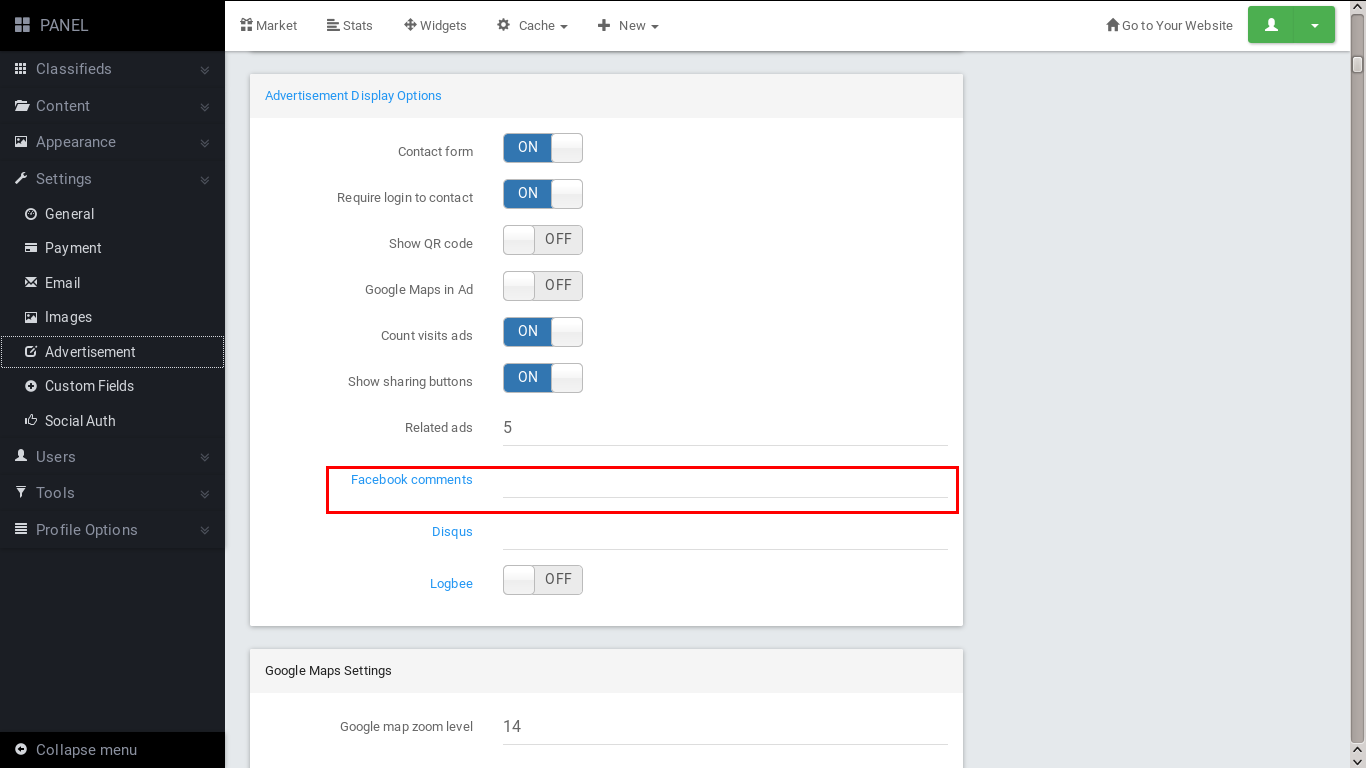
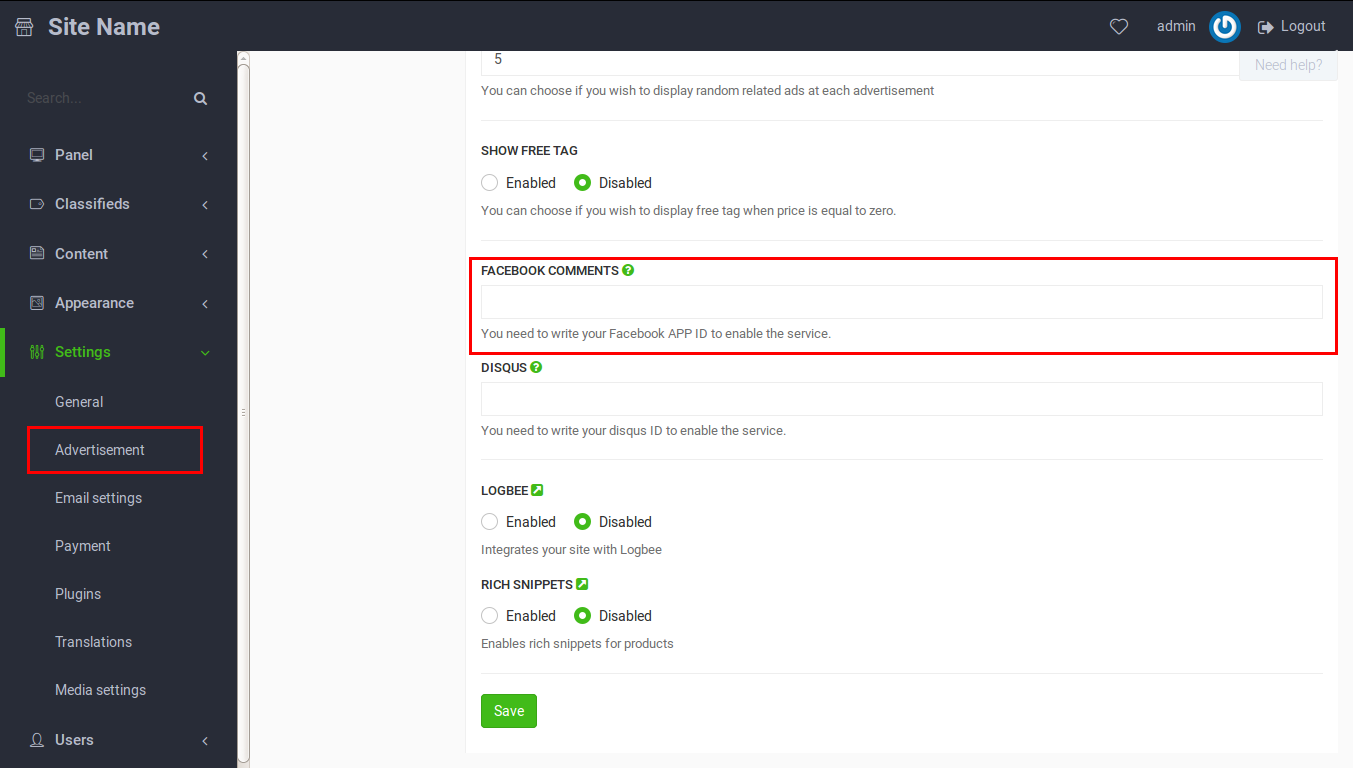
prepare docs for new panel

diff --git a/how-to-configure-publish-options.md b/how-to-configure-publish-options.md
@@ -5,25 +5,24 @@ categories: Advertisement
 tags: [Advertisement]
 permalink: /how-to-configure-publish-options/
 ---
-You can access these options by logging into your admin panel and going to **Settings** -> **Advertisement**. 
+You can access these options by logging into your admin panel and going to **Settings** -> **Advertisement** -> **Publish Options**. 
 
-
-<br>
+<a href="//docs.yclas.com/images/listing-options.png" class="thumbnail gallery-item" data-gallery>
 ![PublishOptions](//docs.yclas.com/images/publish-options.png)
-
-
-<br>
+</a>
 
 + **Require login to post:** Force your users to register or login before they post any ad on your website. Read more in [this guide]({{ site.baseurl }}/force-registration-posting-new-ad).
 + **Only administrators can publish:** Users or guests are not able to publish ads on your site.
 + **Ad expiration date:** After how many days an Ad will expire. Put 0 (zero) if you don't want ads to expire.
-+ **Parent categories:** By switching ON this option users are allowed to publish an Ad under a parent category.
++ **Parent category:** By switching ON this option users are allowed to publish an Ad under a parent category.
 + **Google Maps in Publish New:** Displays the google maps in the Publish new form.
++ **BBCODE editor on description field:** BBCODE editor appears in description field.
 + **Captcha:** Captcha appears in the form.
 + **Leave alert before submitting form**: Disable/Enable leave alert before submitting publish new form.
 + **Term of Service:** If you choose to use terms of service, you can select activate. More details in [this guide]({{ site.baseurl }}/how_to_add_pages).
 + **Thank page:** Page that will be displayed to the user after he publishes an Ad.
 + **Banned words:** You need to write your banned words separated with coma (,) to enable the service.
++ **Validate banned words:** Enables banned words validation.
 + **Banned words replacement:** Banned word replacement replaces selected array with the string you provided. (For example "xxx")
 
   

diff --git a/review-system-works.md b/review-system-works.md
@@ -12,11 +12,14 @@ Note that the review option is available only for the Premium Users. when you're
 To enable the review system follow the steps below: 
 
 1. Log in your **Admin Panel** 
-2. Choose **Settings** > **Advertisement** > **Reviews Configuration** 
+2. Choose **Settings** > **Advertisement** > **Reviews** 
 3. **Enable reviews = ON** 
 4. **Save** the changes 
 
-![Reviews FAQ 1](//open-classifieds.com/wp-content/uploads/2014/08/ReviewsFAQ-1.png) 
+
+<a href="//docs.yclas.com/images/reviews.png" class="thumbnail gallery-item" data-gallery>
+![Reviews FAQ 1](//docs.yclas.com/images/reviews.png) 
+</a>
 
 <br>
 Then, go to your website, click on an ad and you can see that the option of leaving a review appeared as shown in the below screenshot.
@@ -35,10 +38,12 @@ What is more, an additional option is provided for you! You are able to give an 
 
 To activate this option, log in your **Admin Panel**, choose **Settings** > **Advertisement** > **Reviews Configuration** and in the field: **Only for paid transactions** \- select **ON**. Save the changes and you're ready!
 
-![ReviewsFAQ. 4](//open-classifieds.com/wp-content/uploads/2014/08/ReviewsFAQ.-4.png)
+<a href="//docs.yclas.com/images/reviews1.png" class="thumbnail gallery-item" data-gallery>
+![Reviews FAQ 1](//docs.yclas.com/images/reviews1.png) 
+</a>
 
 <br>
-**IMPORTANT!** Make sure that the user paypal link option is activated, otherwise the reviews cannot work properly. To get this working, go to Settings > Payement > Paypal, Set "User paypal link" to "On" and Save changes.
+**IMPORTANT!** Make sure that the user paypal link option is activated, otherwise the reviews cannot work properly. To get this working, go to Settings > Payment > Paypal, Set "Buy Now" to "On" and Save changes.
 
 We hope that with our new Open Classifieds solutions managing your website is becoming easier! And remember that this is a premium feature which you can get now starting from [a small fee of 3.49$ a month](http://open-classifieds.com/hosting/)
 

diff --git a/add-facebook-comments.md b/add-facebook-comments.md
@@ -14,26 +14,34 @@ This feature requires **two steps** one on **Facebook side** and one on **Open C
 1. First you need to **log in to Facebook** and go to https://developers.facebook.com 
 2. Click on **Apps** (register as a developer if you haven't already) 
 
+<a href="//open-classifieds.com/wp-content/uploads/2014/05/facebook-apps-1024x516.png" class="thumbnail gallery-item" data-gallery>
 ![facebook apps](//open-classifieds.com/wp-content/uploads/2014/05/facebook-apps-1024x516.png) 
+</a>
 
 3\. Click on **New App** and name it whatever you want 
 
+<a href="//open-classifieds.com/wp-content/uploads/2014/05/facebook-apps2-1024x516.png" class="thumbnail gallery-item" data-gallery>
 ![facebook apps2](//open-classifieds.com/wp-content/uploads/2014/05/facebook-apps2-1024x516.png) 
+</a>
 
 4\. **Copy the App ID** that shows up after creation 
 
+<a href="//open-classifieds.com/wp-content/uploads/2014/05/Facebook-apps3-1024x516.png" class="thumbnail gallery-item" data-gallery>
 ![Facebook apps3](//open-classifieds.com/wp-content/uploads/2014/05/Facebook-apps3-1024x516.png)
+</a>
 
 ## Open Classifieds side
 
-1. Log in to your **OC admin panel** 
-2. Go to **Settings** > **Advertisement > Advertisement Display Options** 
-3. Enter the **Facebook App ID** into the **Facebook comments** box 
+1. Log in to your **OC admin panel**.
+2. Go to **Settings** > **Advertisement** > **Advertisement Display Options**.
+3. Enter the **Facebook App ID** into the **Facebook comments** box.
 4. Press **Save**! 
 
+<a href="//docs.yclas.com/images/facebook-comments.png" class="thumbnail gallery-item" data-gallery>
 ![How to add Facebook comments](//docs.yclas.com/images/facebook-comments.png) 
+</a>
 
-<br>
+
 Now you have fully functional facebook comments on your ads. 
 
 <br>

diff --git a/How-to-configure-advertisement-display-options.md b/How-to-configure-advertisement-display-options.md
@@ -7,10 +7,11 @@ permalink: /how-to-configure-advertisement-display-option/
 ---
 In this section of options you can configure what will be displayed on the advertisement's page.
 
-To access these options, login to your **Panel**, go to **Settings** -> **Advertisement**, scroll down to _Advertisement Display Options_ and fill the fields.
+To access these options, login to your **Panel**, go to **Settings** -> **Advertisement** -> **Display Options** and fill the fields.
 
+<a href="//docs.yclas.com/images/ad-display-options.png" class="thumbnail gallery-item" data-gallery>
 ![Advertisement Display Options](//docs.yclas.com/images/ad-display-options.png)
-
+</a>
 
 + **Contact form**: If you enable this option then a contact form appears in each ad's page where users can contact with the seller.
 + **Require login to contact**: Enable this to force users to login to contact with the seller.
@@ -23,6 +24,7 @@ To access these options, login to your **Panel**, go to **Settings** -> **Advert
 + **Facebook comments**: You need to write your Facebook APP ID to enable the service. Find more [here]({{ site.baseurl }}/add-facebook-comments)
 + **Disqus Comments**: You need to write your disqus ID to enable the service.Find more [here](http://docs.yclas.com/{{ site.baseurl }}/how-to-activate-comments-with-disqus)
 + **Logbee**: Integrates your site with [Logbee](http://www.logbee.com/)
++ **Rich Snippets**: Enables [rich snippets](https://developers.google.com/search/docs/data-types/products) for products.
 
 <br>
 **Related posts:**

diff --git a/how-to-change-settings-for-ads.md b/how-to-change-settings-for-ads.md
@@ -7,7 +7,7 @@ permalink: /how-to-change-settings-for-ads/
 ---
 Open-Classifieds allows you to control the number of advertisements you want to display per page, in RSS and Map. You can also choose how to sort them in listing and which ads to display on your homepage!
 
-To access these settings, go to the Panel, **Settings** -> **Advertisement**. Under _Listing Option_ section you will find the following fields: 
+To access these settings, go to the Panel, **Settings** -> **Advertisement**. Choose **Listing Options** section to find the following fields: 
 
 + **Advertisements per page:** This is to control how many advertisements are being displayed per page. Insert an integer value as a number limit.
 + **Advertisements in RSS:** How many ads are going to appear in the RSS of your site.
@@ -15,9 +15,9 @@ To access these settings, go to the Panel, **Settings** -> **Advertisement**. Un
 + **Sort by Listing:** Sort ads in alphabetical order (ascending or descending), sort by price (highest or lowest first), date posted (newest or oldest) and display featured first.
 + **Advertisements in home:** Find more information [here!]({{ site.baseurl }}/manage-ads-slider)
 
-<br>
-
-  ![settingsforAds](http://open-classifieds.com/wp-content/uploads/2015/03/settingsforAds.png) 
+<a href="//docs.yclas.com/images/listing-options.png" class="thumbnail gallery-item" data-gallery>
+![settingsforAds](//docs.yclas.com/images/listing-options.png) 
+</a>
 
 <br>
 **Related posts:**

diff --git a/force-registration-posting-new-ad.md b/force-registration-posting-new-ad.md
@@ -10,7 +10,7 @@ We weren't in favor of adding this feature to the software, but after many reque
 **To enable this feature you can follow these simple steps:** 
 
 1. Log into your **Admin Panel** 
-2. Go to **Settings** > **Advertisement > Publish Options** 
+2. Go to **Settings** > **Advertisement** > **Publish Options** 
 3. Set **Require login to post** value to **ON** 
 4. Press **Save** 
 
@@ -18,5 +18,7 @@ And you're good to go!
 
 We found that the most convenient style for a theme with this feature is **[Newspaper theme](http://market.open-classifieds.com/themes/newspaper.html)** check the demo **[here](http://market.open-classifieds.com/themes/demo/newspaper.html)**. 
 
-![Require login to post](//open-classifieds.com/wp-content/uploads/2014/05/Require-login-to-post.png)
+<a href="//docs.yclas.com/images/login-to-post.png" class="thumbnail gallery-item" data-gallery>
+![Require login to post](//docs.yclas.com/images/login-to-post.png)
+</a>
 

diff --git a/how-to-configure-Google-Map-Settings.md b/how-to-configure-Google-Map-Settings.md
@@ -11,12 +11,19 @@ Open Classifieds gives you the option to set the Google Map Zoom level and the d
 
 **Steps:**
 
-1. Go on **Panel**, **Settings** -> **Advertisement**.
-2. Scroll down to _Google Map Settings_ section.
-3. Fill the fields.
-4. Click **SAVE**.
+1. Go on **Panel**, **Settings** -> **Advertisement** -> **Google Map**.
+2. Fill the fields.
+3. Click **SAVE**.
 
+<a href="//docs.yclas.com/images/googlemapsettings.png" class="thumbnail gallery-item" data-gallery>
 ![google map settings](//docs.yclas.com/images/googlemapsettings.png)
+</a>
+
++ **Google map style**: Custom Google Maps styling.
++ **Google map zoom level**: Google map default zoom level.
++ **Map latitude coordinates**: Google map default latitude coordinates.
++ **Map longitude coordinates**: Google map default longitude coordinates.
++ **Auto locate distance**: Sets maximum distance of closest suggested locations to the visitor.
 
 <br>
 **Related posts:**

diff --git a/how-to-activate-comments-with-disqus.md b/how-to-activate-comments-with-disqus.md
@@ -14,9 +14,11 @@ With Open Classifieds you can enable **social comments for your advertisements**
   * **Site profile**
   * **Site name**: this is for yourself, will appear in your Moderation/Stats Dashboard etc.
   * Choose your unique Disqus URL: THAT'S THE NAME in Your OC-PANEL
-  * Go to your **OC Panel** > **Settings** > **Advertisement** > Fill the **Disqus field** and click **Save**.
+  * Go to your **OC Panel** > **Settings** > **Advertisement** > **Display Options** and fill the **Disqus field** and click **Save**.
 
-![disqus](//open-classifieds.com/wp-content/uploads/2013/12/disqus.png) 
+<a href="//docs.yclas.com/images/disqus.png" class="thumbnail gallery-item" data-gallery>
+![disqus](//docs.yclas.com/images/disqus.png) 
+</a>
 
 OC will automatically insert the relevant code to insert your Disqus discussion (No need to copy/paste/embed the Universal Code provided). 
 

diff --git a/how-to-manage-advertisement-fields.md b/how-to-manage-advertisement-fields.md
@@ -9,13 +9,12 @@ This feature makes it possible to manage the fields in Ad forms when a user publ
 
 **Steps:** 
 
-1. Go to the Panel, **Settings** -> **Advertisement** 
+1. Go to the Panel, **Settings** -> **Advertisement** -> **Advertisement Fields** 
 2. Scroll down until you find the _Advertisement Fields_ section. 
 
-<br>
-![AdvertisementFields](//open-classifieds.com/wp-content/uploads/2015/03/AdvertisementFields.png)
-
-<br>
+<a href="//docs.yclas.com/images/advertisement-fields.png" class="thumbnail gallery-item" data-gallery>
+![AdvertisementFields](//docs.yclas.com/images/advertisement-fields.png)
+</a>
 
 + **Address:** Displays the field Address in the Ad form
 + **Phone:** Displays the field Phone in the Ad form

diff --git a/manage-ads-slider.md b/manage-ads-slider.md
@@ -13,7 +13,9 @@ The slider is considered one of the main parts in a classifieds site homepage, i
 2. Go to **Settings** > **Advertisement** 
 3. At the **Advertisements in home** section choose one of the four available options.
 
+<a href="//open-classifieds.com/wp-content/uploads/2014/04/How-to-manage-ads-in-slider1.png" class="thumbnail gallery-item" data-gallery>
 ![How to manage ads in slider](//open-classifieds.com/wp-content/uploads/2014/04/How-to-manage-ads-in-slider1.png)
+</a>
 
 <br>
 The **available options** are:
